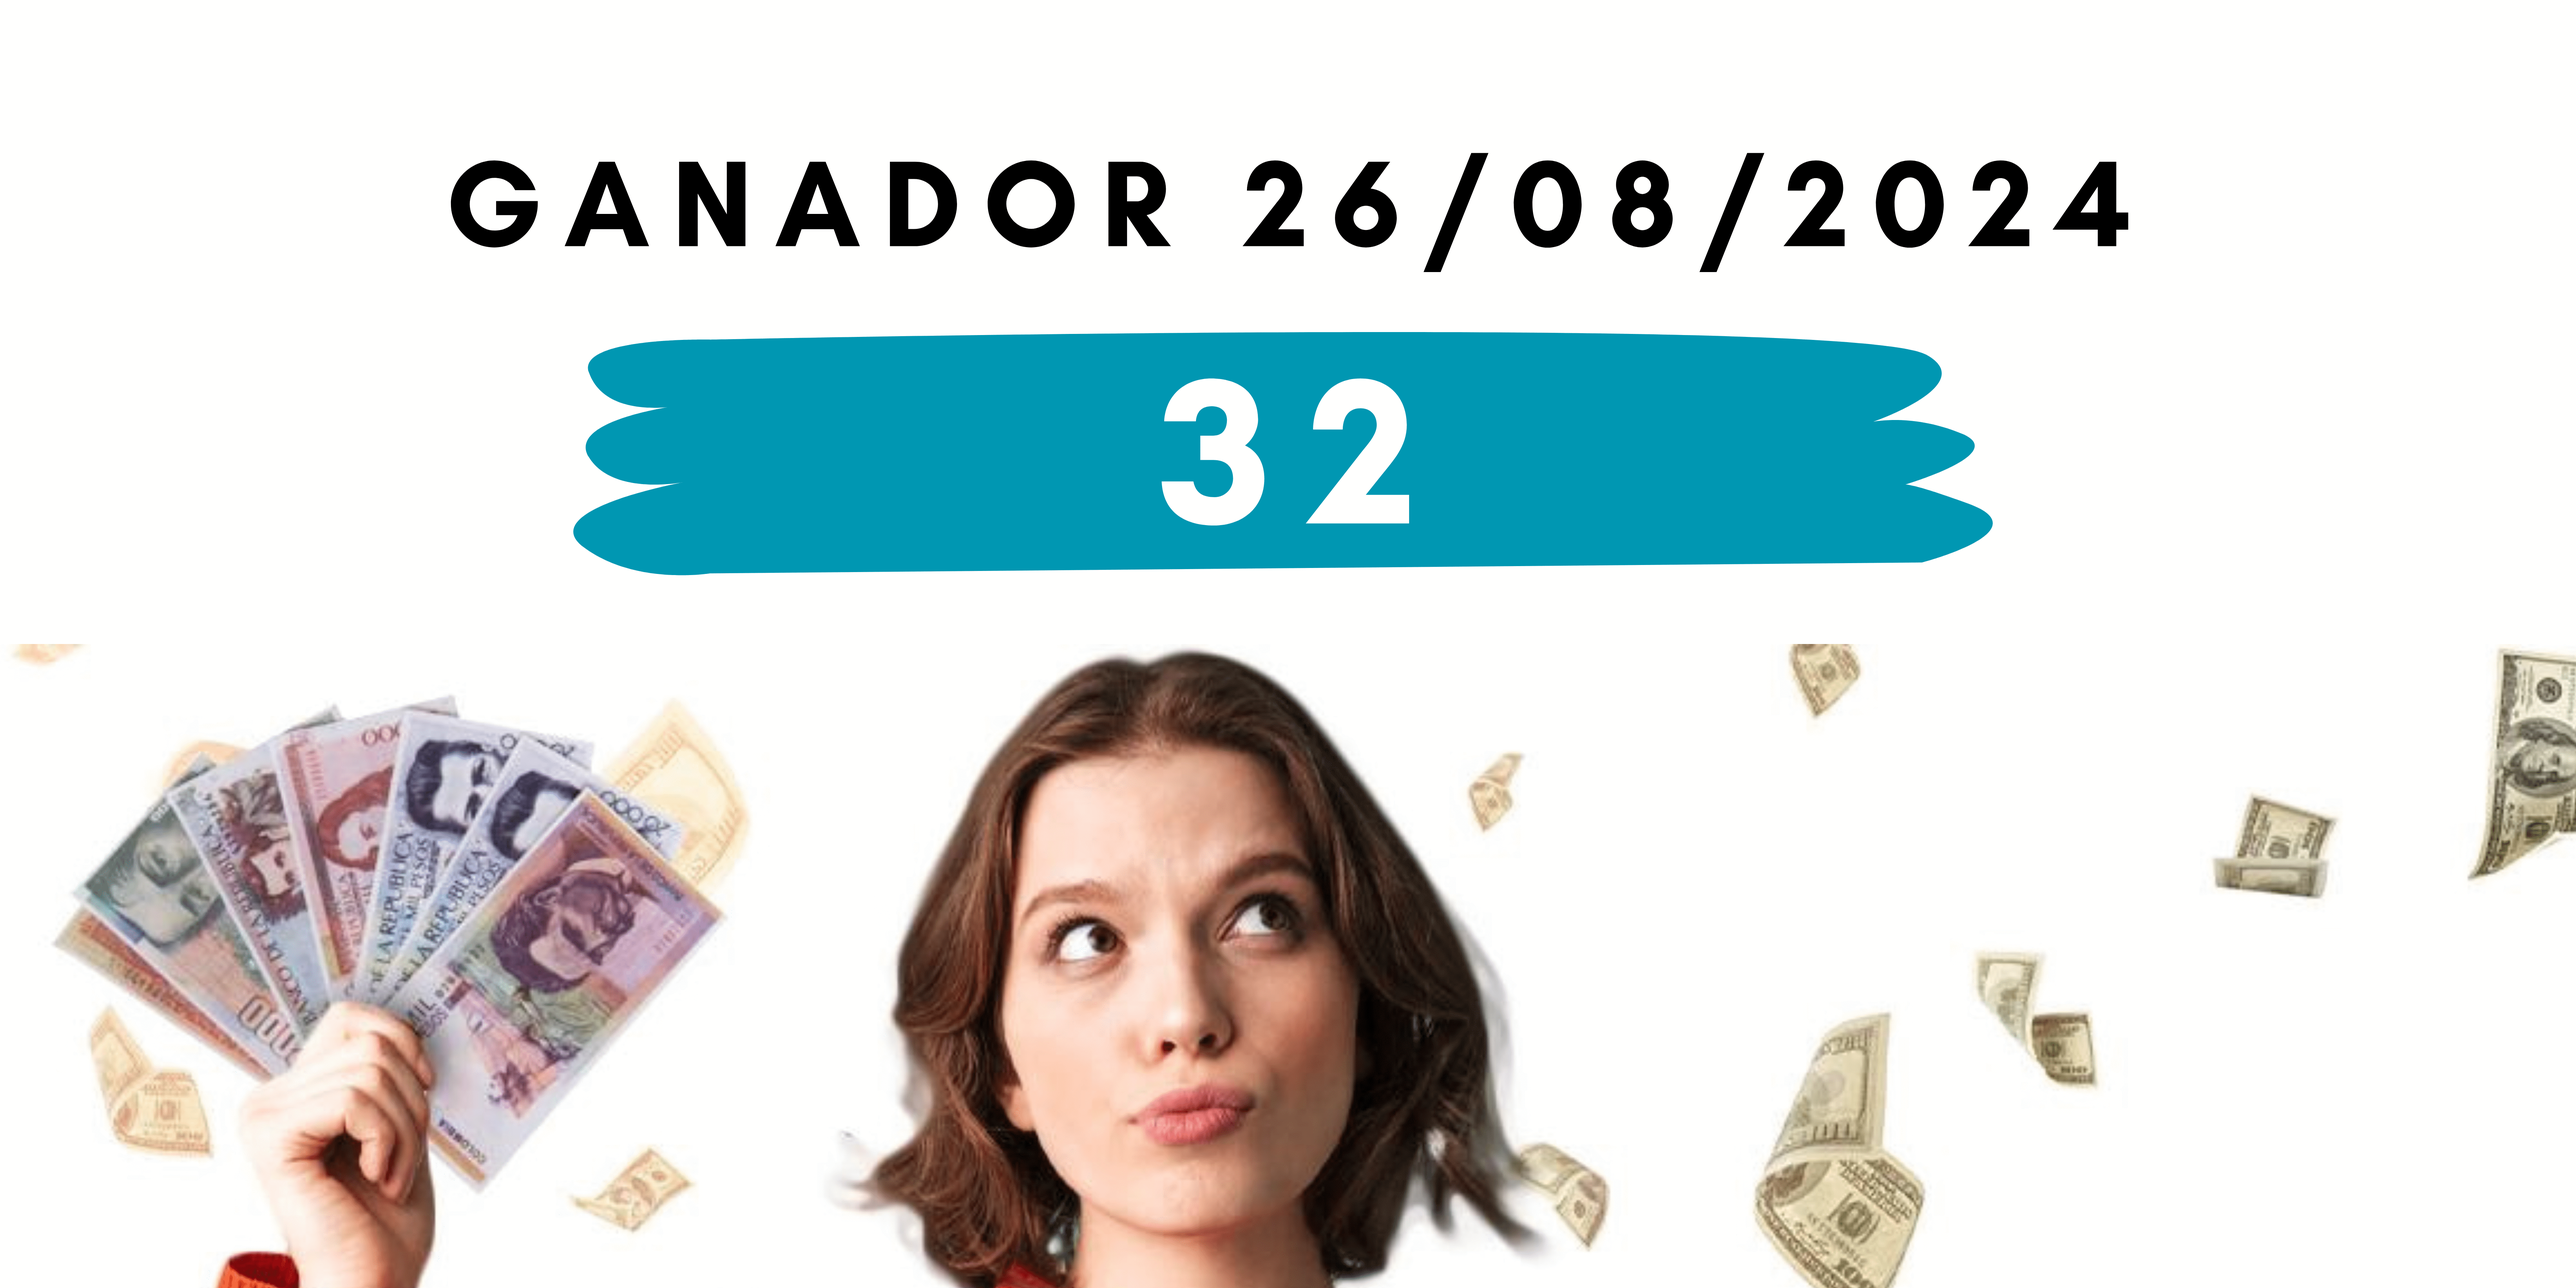
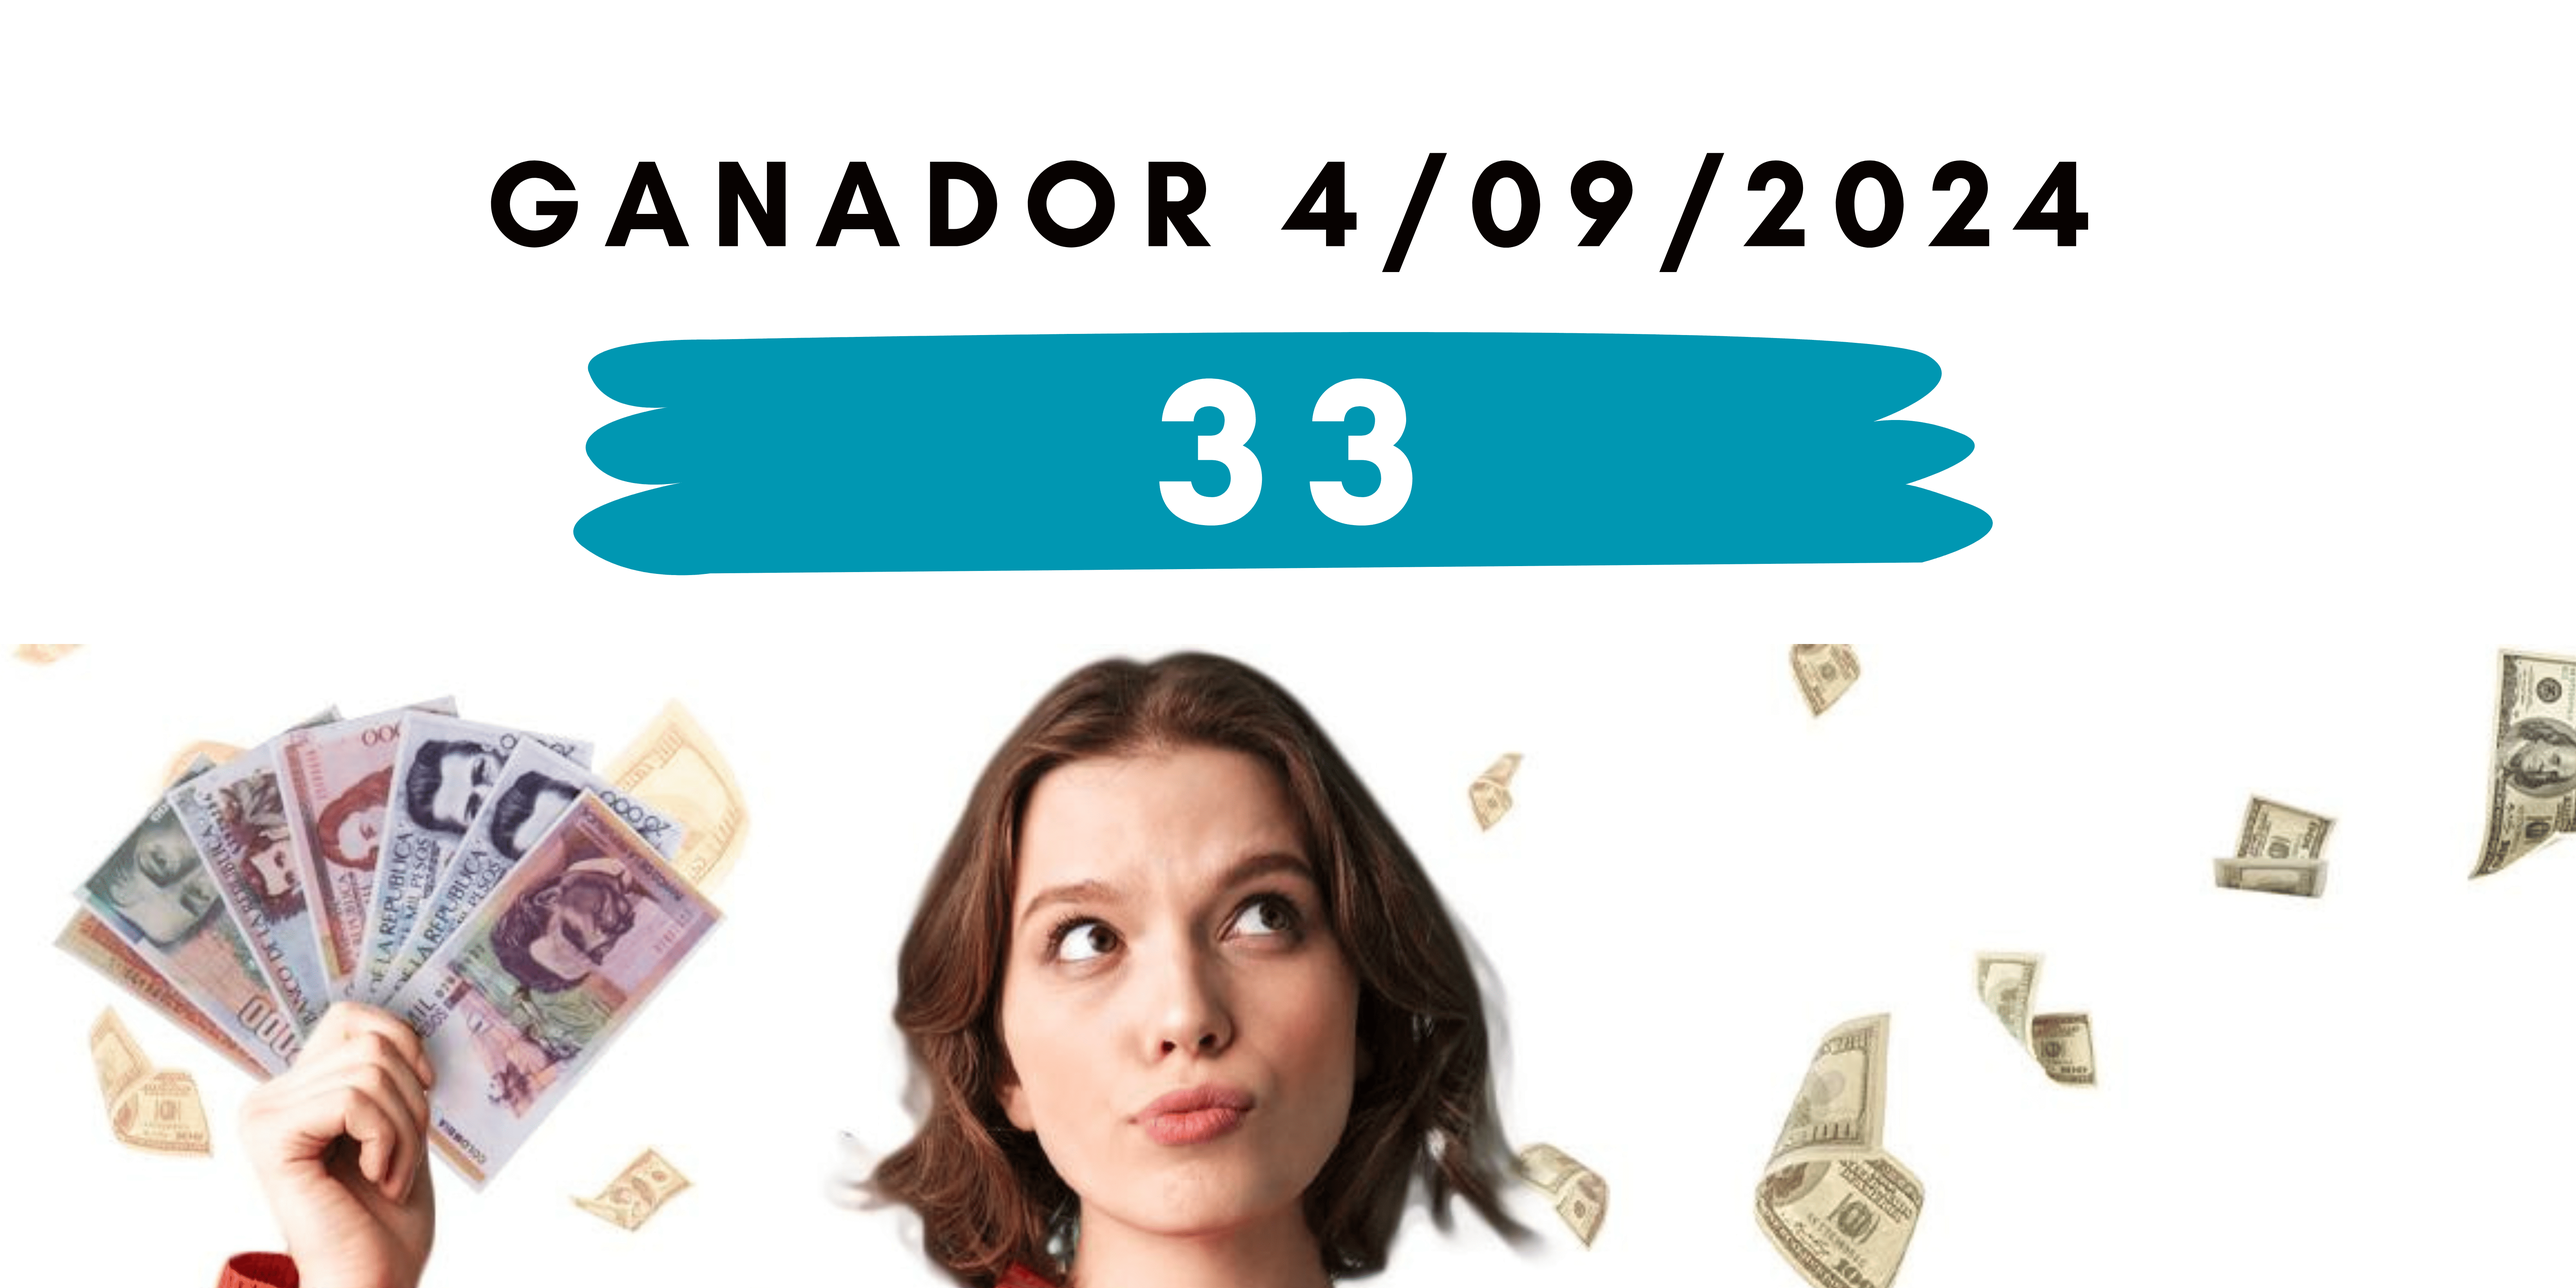
nuevo sorteo DailyWin sept 2024

diff --git a/functions/script.js b/functions/script.js
@@ -3,22 +3,25 @@ let data = [
 
     
 "00 Disponible","01 Disponible","02 Disponible", "03 Disponible","04 Disponible","05 Disponible",
-"06 Disponible","07 Disponible","08 Disponible","09 Disponible","10 Disponible","11 Disponible",
-"12 Disponible","13 Disponible","14 Disponible","15 Disponible","16 Disponible","17 Disponible",
-"18 Disponible","19 Disponible","20 Disponible","21 Disponible","22 Disponible","23 Disponible",
-"24 Disponible","25 Disponible","26 Disponible","27 Disponible","28 Disponible","29 Disponible",
-"30 Disponible","31 Disponible","32 Disponible","33 Disponible","34 Disponible","35 Disponible",
-"36 Disponible","37 Disponible","38 Disponible","39 Disponible","40 Disponible","41 Disponible",
-"42 Disponible","43 Disponible","44 Disponible","45 Disponible","46 Disponible",
-"47 Disponible","48 Disponible","49 Disponible","50 Disponible","51 Disponible","52 Disponible",
-"53 Disponible","54 Disponible","55 Disponible","56 Disponible","57 Disponible","58 Disponible",
-"59 Disponible","60 Disponible","61 Disponible","62 Disponible","63 Disponible","64 Disponible",
-"65 Disponible","66 Disponible","67 Disponible","68 Disponible","69 Disponible","70 Disponible",
-"71 Disponible","72 Disponible","73 Disponible","74 Disponible","75 Disponible","76 Disponible",
-"77 Disponible","78 Disponible","79 Disponible","80 Disponible","81 Disponible","82 Disponible",
-"83 Disponible","84 Disponible","85 Disponible","86 Disponible","87 Disponible","88 Disponible",
-"89 Disponible","90 Disponible","91 Disponible","92 Disponible","93 Disponible","94 Disponible",
-"95 Disponible","96 Disponible","97 Disponible","98 Disponible","99 Disponible"
+    "06 Disponible","07 Disponible","08 Disponible","09 Disponible","10 Disponible","11 Disponible",
+    "12 Disponible","13 Disponible","14 Disponible","15 Disponible","16 Disponible","17 Disponible",
+    "18 Disponible","19 Disponible","20 Disponible","21 Disponible","22 Disponible","23 Disponible",
+    "24 Disponible","25 Disponible","26 Disponible","27 Disponible","28 Disponible","29 Disponible",
+    "30 Disponible","31 Disponible","32 Disponible","33 Disponible","34 Disponible","35 Disponible",
+    "36 Disponible","37 Disponible","38 Disponible","39 Disponible","40 Disponible","41 Disponible",
+    "42 Disponible","43 Disponible","44 Disponible","45 Disponible","46 Disponible",
+    "47 Disponible","48 Disponible","49 Disponible","50 Disponible","51 Disponible","52 Disponible",
+    "53 Disponible","54 Disponible","55 Disponible","56 Disponible","57 Disponible","58 Disponible",
+    "59 Disponible","60 Disponible","61 Disponible","62 Disponible","63 Disponible","64 Disponible",
+    "65 Disponible","66 Disponible","67 Disponible","68 Disponible","69 Disponible","70 Disponible",
+    "71 Disponible","72 Disponible","73 Disponible","74 Disponible","75 Disponible","76 Disponible",
+    "77 Disponible","78 Disponible","79 Disponible","80 Disponible","81 Disponible","82 Disponible",
+    "83 Disponible","84 Disponible","85 Disponible","86 Disponible","87 Disponible","88 Disponible",
+    "89 Disponible","90 Disponible","91 Disponible","92 Disponible","93 Disponible","94 Disponible",
+    "95 Disponible","96 Disponible","97 Disponible","98 Disponible","99 Disponible"
+
+
+
 
 
 

diff --git a/index.html b/index.html
@@ -49,7 +49,7 @@
     <div class="SpecialBox">
         <div class="containerSbox">
             <br><b>Premio: $260.000.</b></p>
-            <p><b>Miércoles 4 de septiembre de 2024.</b></p>
+            <p><b>Viernes 20 de septiembre de 2024.</b></p>
             <p>Con las <b>dos últimas</b> cifras de la Loteria El Saman de la Suerte.</p>
             <p><b>GANADOR:</b> 1:00 PM 🇨🇴</p>
         </div>

diff --git a/Styles.css b/Styles.css
@@ -619,6 +619,3 @@ button a {
 }
 
 
-#b-21, #b-23, #b-17 {
-    background-color: #ff5931;
-}
